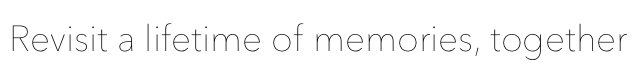
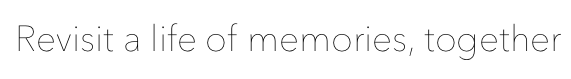
switch from "lifetime" to "life"

Changed region(s): [[0.0, 0.2785, 0.9825, 0.7595], [0.0893, 0.3291, 0.1786, 0.3544], [0.6252, 0.3291, 0.6848, 0.3544]]

diff --git a/php/index.php b/php/index.php
@@ -8,7 +8,7 @@
 <link href="https://fonts.googleapis.com/css?family=Lato:300,700" rel="stylesheet" type="text/css"/>
 <link href="css/promenade.css" rel="stylesheet" type="text/css"/>
 <link rel="icon" type="image/png" href="img/icon.png" />
-<title>Promenade - Revisit a Lifetime of Memories, Together</title>
+<title>Promenade - Revisit a Life of Memories, Together</title>
 </head>
 
 <body>
@@ -46,7 +46,7 @@
 	<div class="subcolumn">
 		<h1>What Is Promenade?</h1>
 
-		<p>Promenade is an iPad app designed for family members and caregivers to use when visiting loved ones living with dementia or related illnesses. Created by experts in the field of Gerontology and Therapeutic Recreation, Promenade is a tool that can help stimulate conversation, encourage reminiscence, and make personal visits more rewarding and engaging. Promenade presents groups of photographs based on user selected topics; however, it's much more than just an image search. Every topic is accompanied by a list of conversation based questions, as well as related topic suggestions to ensure there’s always something to talk about. Conversations will flow with ease as you and your loved one nostalgically discuss memories inspired by the countless photos and questions provided. Bring Promenade along for your next visit, and revisit a lifetime of memories, together.</p>
+		<p>Promenade is an iPad app designed for family members and caregivers to use when visiting loved ones living with dementia or related illnesses. Created by experts in the field of Gerontology and Therapeutic Recreation, Promenade is a tool that can help stimulate conversation, encourage reminiscence, and make personal visits more rewarding and engaging. Promenade presents groups of photographs based on user selected topics; however, it's much more than just an image search. Every topic is accompanied by a list of conversation based questions, as well as related topic suggestions to ensure there’s always something to talk about. Conversations will flow with ease as you and your loved one nostalgically discuss memories inspired by the countless photos and questions provided. Bring Promenade along for your next visit, and revisit a life of memories, together.</p>
 	</div>
 </div>
 <br/>
